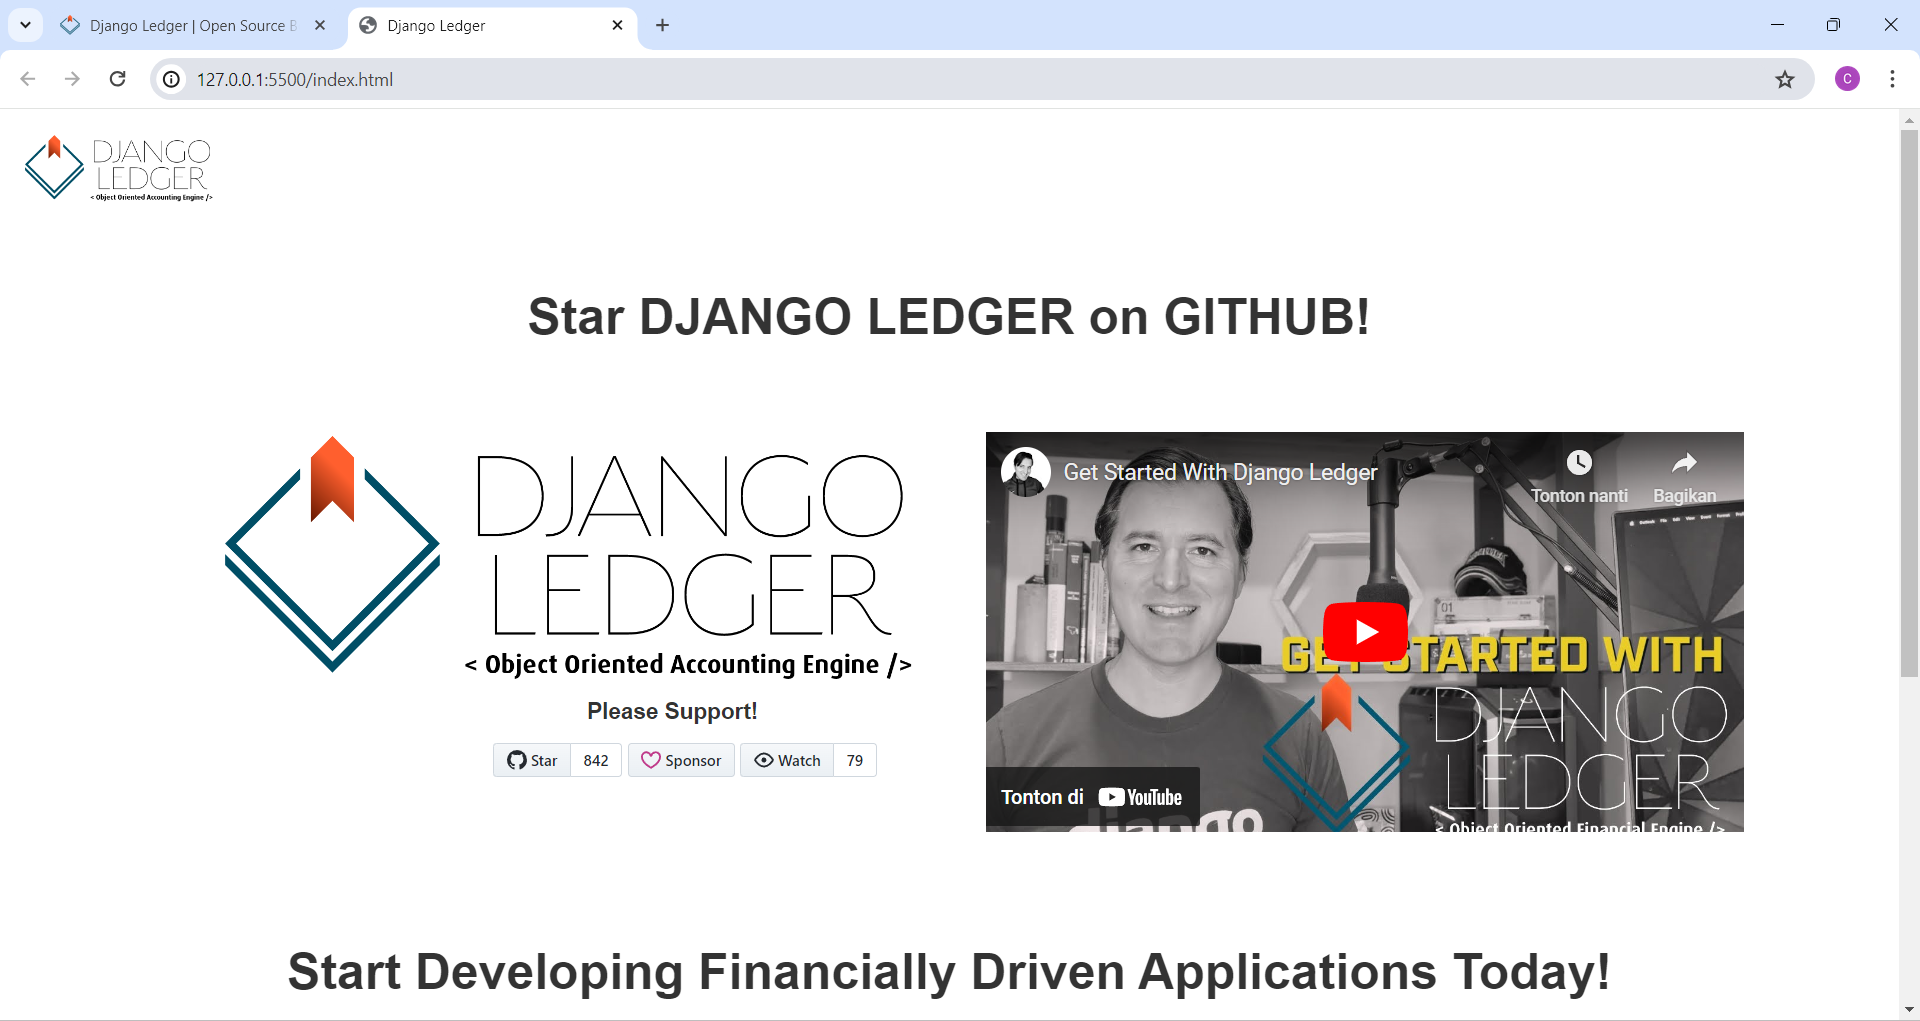
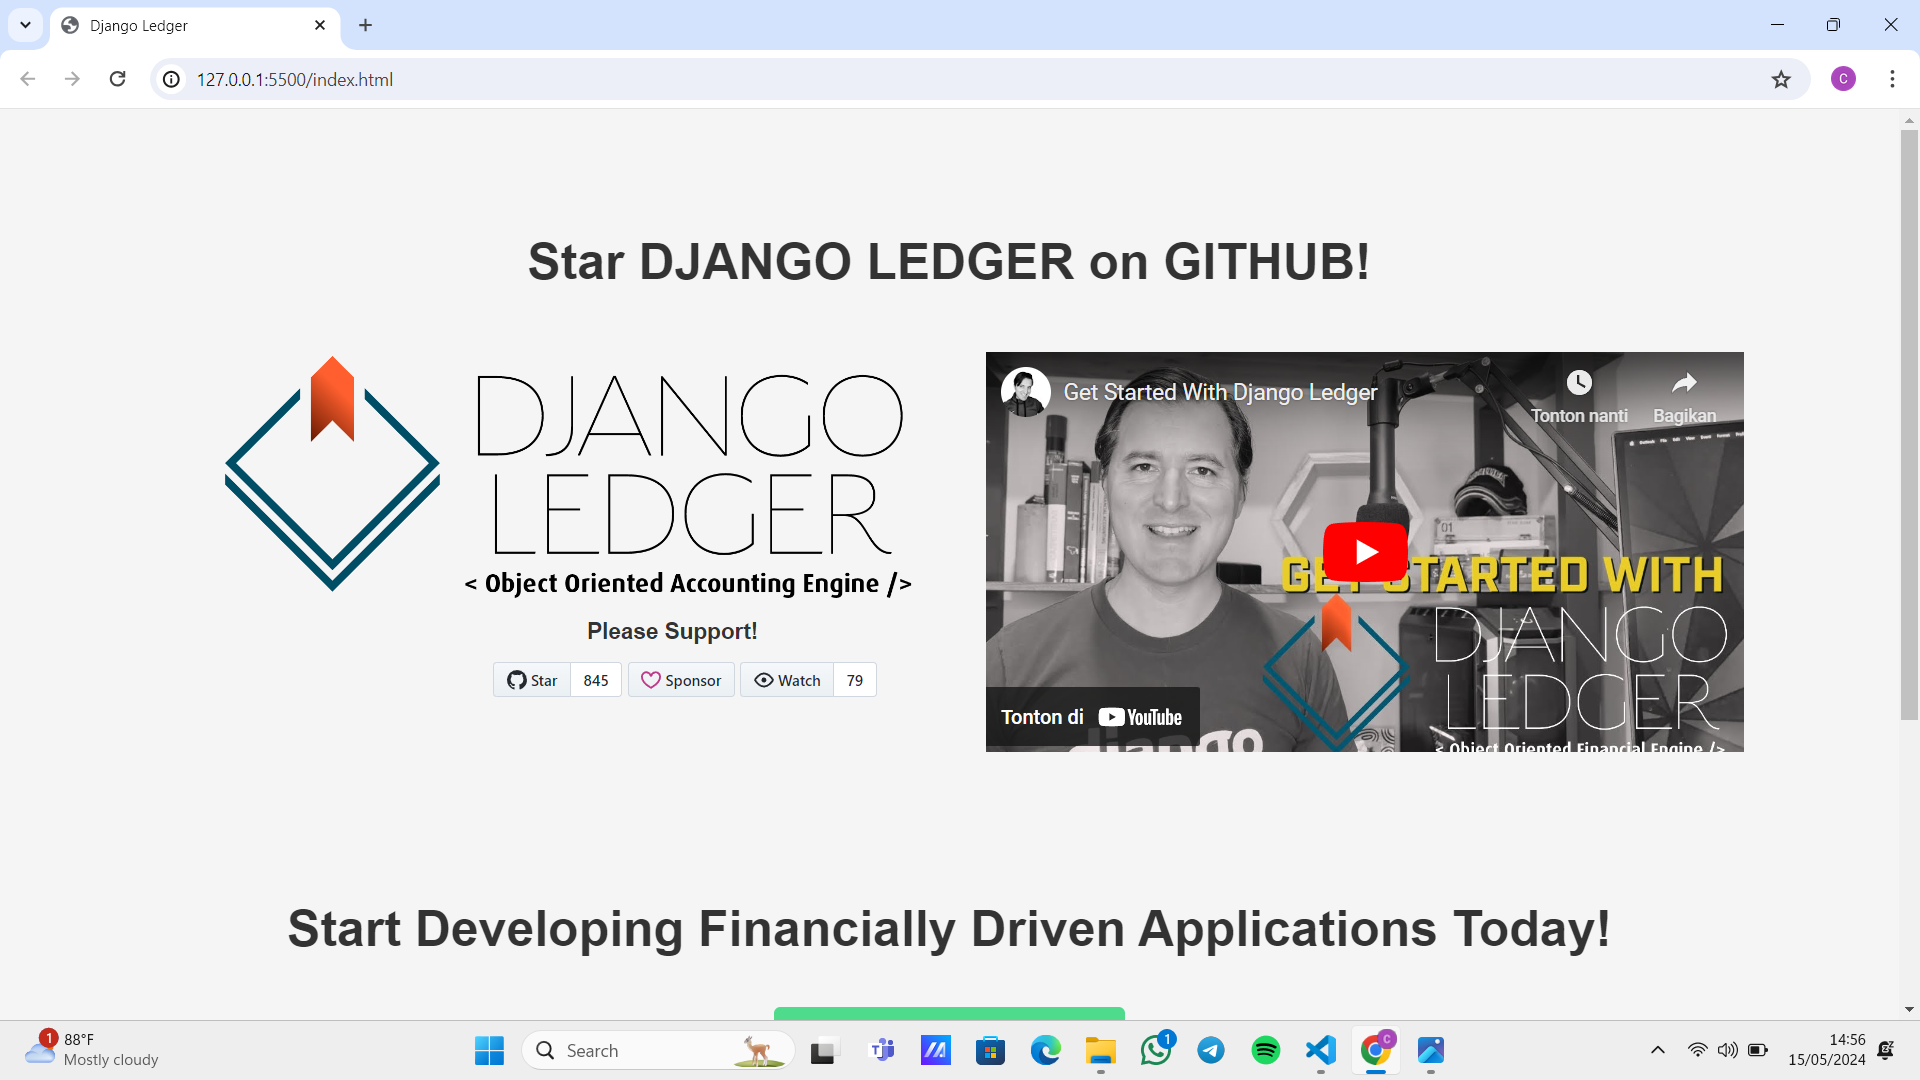
Add files via upload

diff --git a/ReDesignWeb/style.css b/ReDesignWeb/style.css
@@ -7,12 +7,6 @@
 }
 
 
-/* Style untuk logo */
-.logo img {
-    width: 150px; /* Atur lebar logo */
-    height: auto; /* Biarkan tinggi menyesuaikan dengan aspek ratio */
-}
-
 * {
     margin: 0;
     padding: 0;
@@ -21,7 +15,7 @@
 h1 {
     text-align: center;
     font-size: 2rem; /* Ubah ukuran font sesuai kebutuhan */
-    margin-bottom: 40px; /* Berikan jarak bawah agar tidak terlalu dekat dengan konten berikutnya */
+    margin-bottom: 90px; /* Berikan jarak bawah agar tidak terlalu dekat dengan konten berikutnya */
     font-style: bold;
     font-family: 'Arial';
 }
@@ -51,8 +45,6 @@ body {
     margin-right: 5%;
     
 }
-
-
 .image-container img {
     max-width: 100%;
     height: auto;
@@ -107,32 +99,36 @@ h1 {
     font-size: 2.5rem; /* Ukuran font */
     font-weight: bold; /* Ketebalan font */
     color: #333; /* Warna teks */
-    margin-top: 60px; /* Jarak bawah */
+    margin-top: 90px; /* Jarak bawah */
+    margin-bottom: 20px;
     font-family: Arial;
 }
 
 .button-container {
     display: flex;
-    justify-content: center;
-    margin-top: 20px;
-    margin-bottom: 200px;
+    flex-direction: column; /* Change to column layout */
+    align-items: center; /* Center align items */
+    margin-top: 10px;
+    margin-bottom: 100px;
 }
 
 .button-container .button {
-    margin: 0 10px; /* Jarak antara tombol */
-    border: 2px solid transparent; /* Garis pinggir dengan warna tertentu */
-    border-radius: 5px; /* Mengatur sudut kotak */
-    background-color: #4edb8b; /* Latar belakang transparan */
-    color: #ffff; /* Warna teks */
+    margin: 10px 0; /* Adjust margin for vertical spacing */
+    border: 2px solid transparent; /* Border with a specific color */
+    border-radius: 5px; /* Rounded corners */
+    background-color: #4edb8b; /* Background color */
+    color: #ffffff; /* Text color */
     padding: 10px 20px; /* Padding */
-    text-decoration: none; /* Menghapus garis bawah default */
-    transition: background-color 0.3s ease; /* Transisi saat berubah warna */
+    text-decoration: none; /* Remove underline */
+    transition: background-color 0.3s ease; /* Transition for background color change */
 }
 
 .button-container .button:hover {
-    background-color: #ffffff; /* Warna latar belakang saat dihover */
-    color: #000; /* Warna teks saat dihover */
+    background-color: #ffffff; /* Background color on hover */
+    color: #000000; /* Text color on hover */
 }
+
+
 .footer {
         background-color: #e9ecef; /* Warna latar belakang footer */
         padding: 20px 0; /* Padding atas dan bawah */
@@ -154,7 +150,6 @@ h1 {
     margin: 0 10px; /* Jarak antara ikon */
     
 }
-
 
 
 

diff --git a/ReDesignWeb/index.html b/ReDesignWeb/index.html
@@ -7,12 +7,6 @@
              
 </head>
 <body>
-    <header class="header">
-        <div class="logo">
-            <img src="django-ledger-logo.png" alt="django-ledger-logo.png">
-
-        </div>
-<body>
      <h1 class="is-size-1">Star DJANGO LEDGER on GITHUB!</h1>
         <section class="hero is-light is-bold is-medium">
                 </section>
@@ -57,7 +51,6 @@
         <a href="https://www.miguelsanda.com/get-started" target="_blank" class="button is-success is-large">Get Your Free Get Started Guide!</a>
         <a href="https://django-ledger.readthedocs.io/en/latest/" target="_blank" class="button is-info is-large is-outlined">Read the Documentation</a>
     </div>
-
     <footer class="footer">
         <div class="container">
             <div class="columns has-text-centered">
@@ -82,6 +75,8 @@
             </div>
         </div>
     </footer>
+
+
     
     
 </head>
